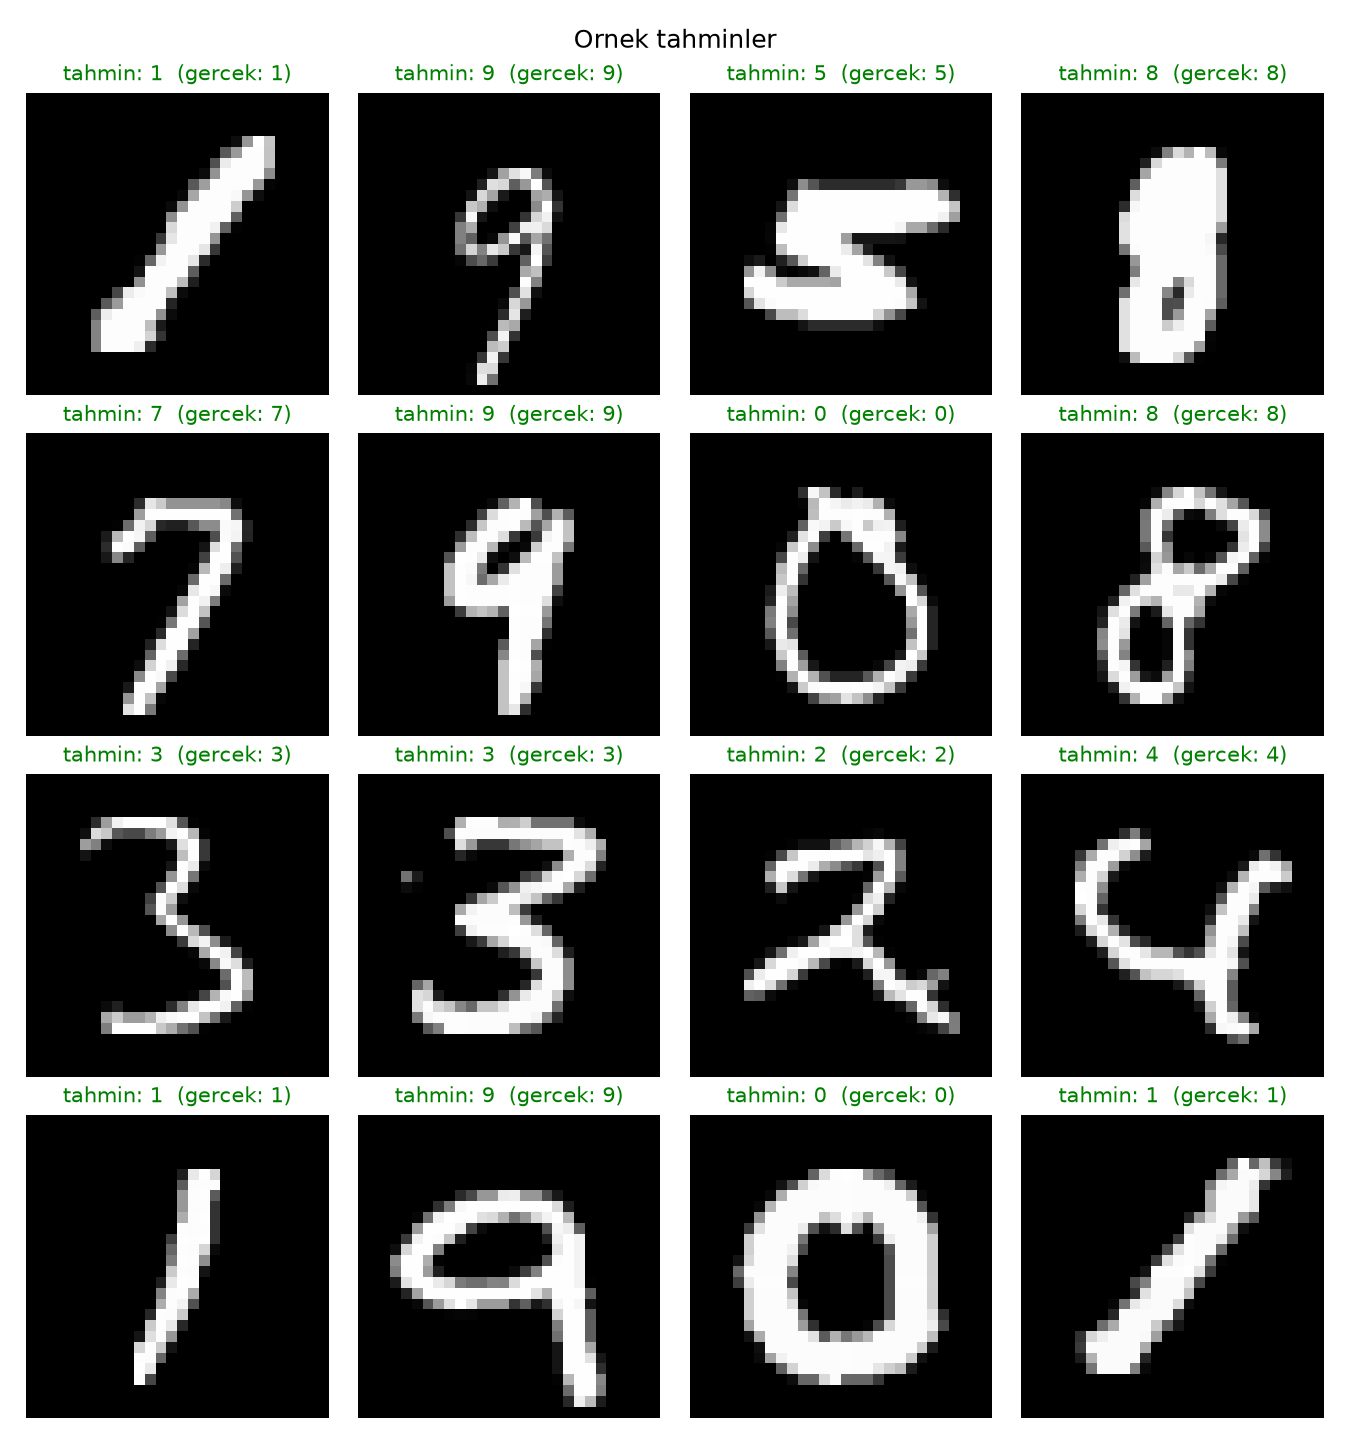
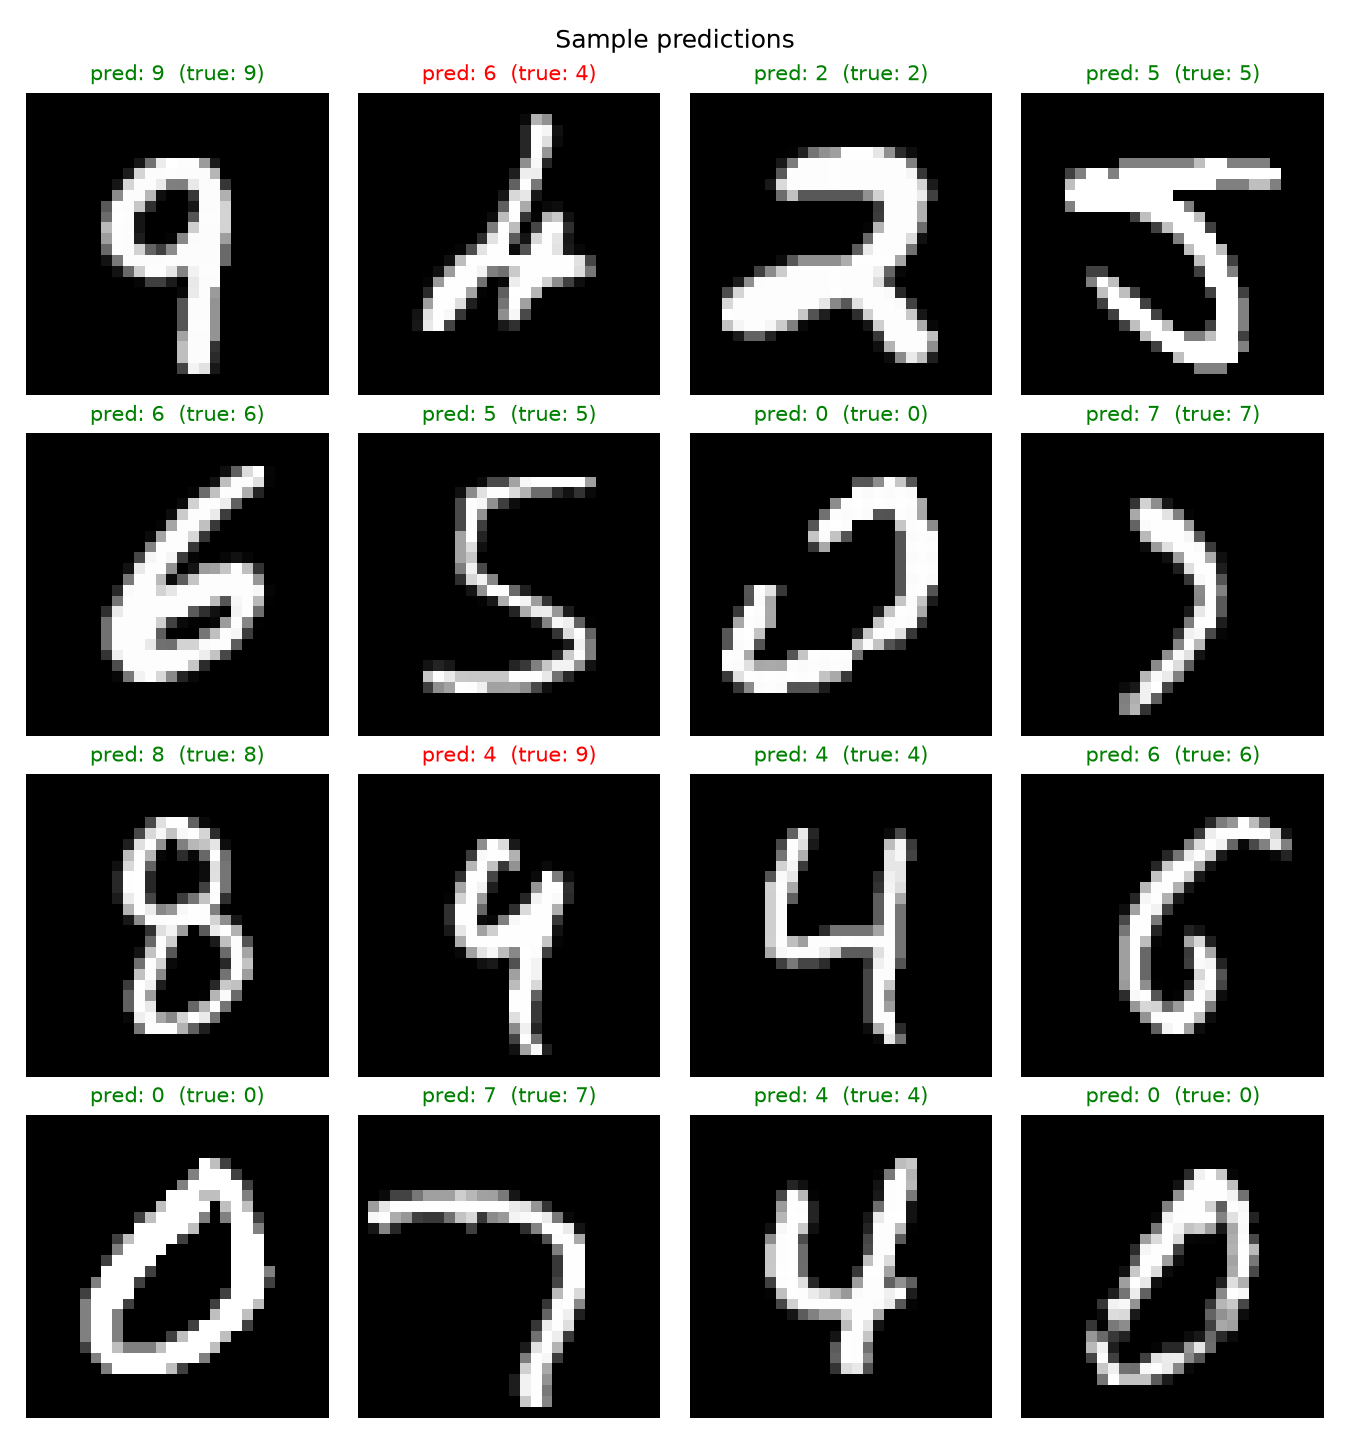
Translate prediction plot labels to English

diff --git a/examples/mnist/visualize.py b/examples/mnist/visualize.py
@@ -1,4 +1,4 @@
-import numpy as np
+import numpy as np
 import matplotlib.pyplot as plt
 from tinytorch import Tensor, Conv2d, MaxPool2d, Linear, ReLU
 
@@ -66,10 +66,10 @@ def show_predictions(n=16, only_errors=False):
 
     if only_errors:
         idx = np.where(preds != y_test)[0]      # sadece hatalar
-        title = "Yanlis tahminler"
+        title = "Misclassified examples"
     else:
         idx = np.random.permutation(len(y_test))  # rastgele karisim
-        title = "Ornek tahminler"
+        title = "Sample predictions"
     idx = idx[:n]
 
     rows = int(np.ceil(n / 4))
@@ -77,7 +77,7 @@ def show_predictions(n=16, only_errors=False):
     for ax, i in zip(axes.flat, idx):
         ax.imshow(x_test[i, 0], cmap="gray")     # (1,28,28) -> (28,28)
         ok = preds[i] == y_test[i]
-        ax.set_title(f"tahmin: {preds[i]}  (gercek: {y_test[i]})",
+        ax.set_title(f"pred: {preds[i]}  (true: {y_test[i]})",
                      color="green" if ok else "red", fontsize=10)
         ax.axis("off")
     for ax in axes.flat[len(idx):]:
